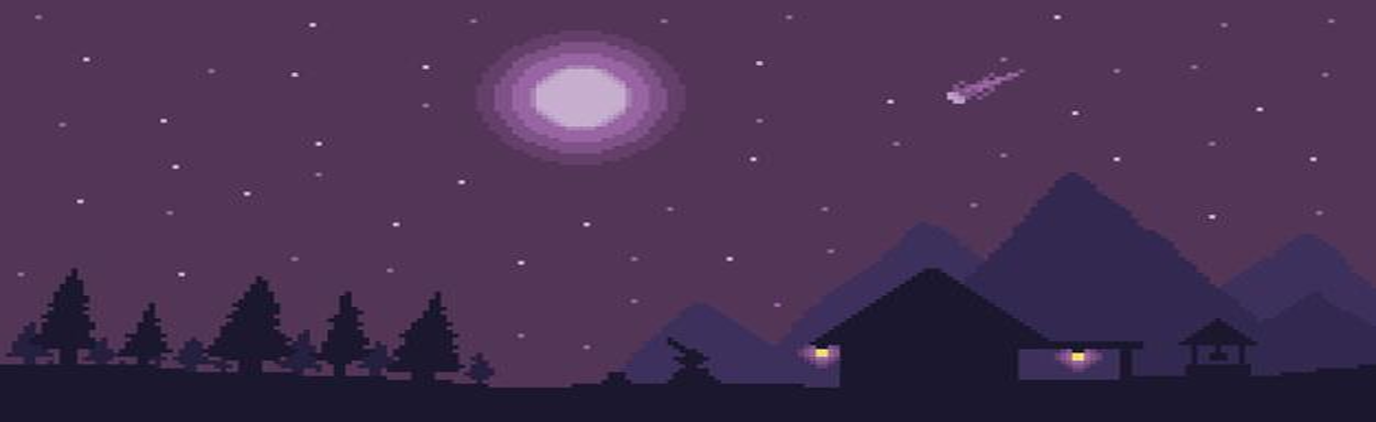
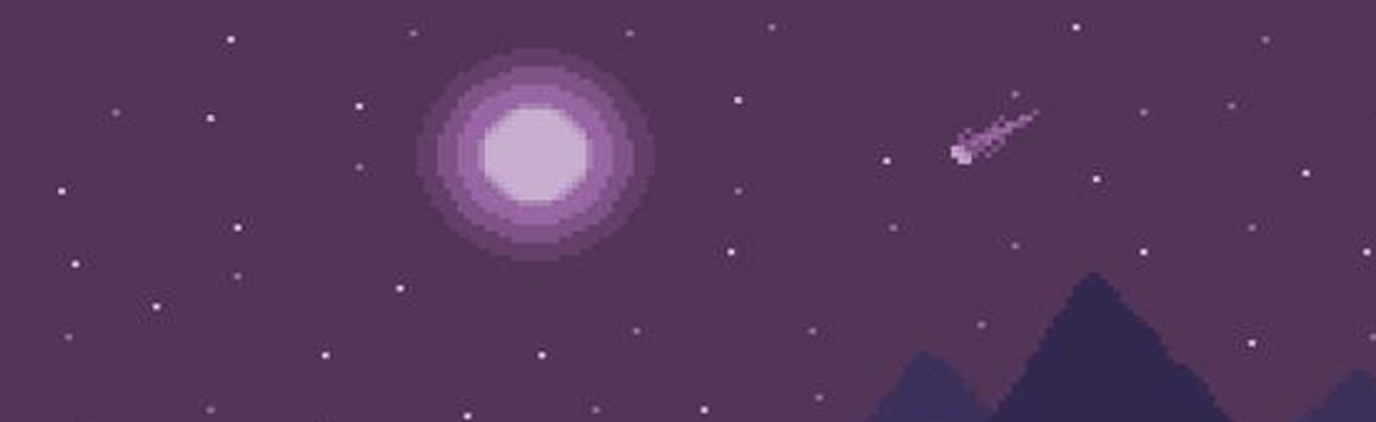
Alterações no fundo

diff --git a/NOVO/shooter_tut13.py b/NOVO/shooter_tut13.py
@@ -65,14 +65,14 @@ start_img = pygame.image.load('img/start_btn.png').convert_alpha()
 exit_img = pygame.image.load('img/exit_btn.png').convert_alpha()
 restart_img = pygame.image.load('img/restart_btn.png').convert_alpha()
 # background
-pine1_img = pygame.image.load('img/Background/pine1.png').convert_alpha()
-pine2_img = pygame.image.load('img/Background/pine2.png').convert_alpha()
-mountain_img = pygame.image.load('img/Background/mountain.png').convert_alpha()
+overlay_img = pygame.image.load('img/Background/overlay.png').convert_alpha()
+mist_img = pygame.image.load('img/Background/mist.png').convert_alpha()
+corridor_img = pygame.image.load('img/Background/corridor.png').convert_alpha()
 sky_img = pygame.image.load('img/Background/sky_cloud.png').convert_alpha()
 bkgnd_scle = 1.3
-pine1_img = pygame.transform.scale(pine1_img, (int(pine1_img.get_width() * bkgnd_scle), int(pine1_img.get_height() * bkgnd_scle)))
-pine2_img = pygame.transform.scale(pine2_img, (int(pine2_img.get_width() * bkgnd_scle), int(pine2_img.get_height() * bkgnd_scle)))
-mountain_img =pygame.transform.scale(mountain_img, (int(mountain_img.get_width() * bkgnd_scle), int(mountain_img.get_height() * bkgnd_scle)))
+overlay_img = pygame.transform.scale(overlay_img, (int(overlay_img.get_width() * bkgnd_scle), int(overlay_img.get_height() * bkgnd_scle)))
+mist_img = pygame.transform.scale(mist_img, (int(mist_img.get_width() * bkgnd_scle), int(mist_img.get_height() * bkgnd_scle)))
+corridor_img =pygame.transform.scale(corridor_img, (int(corridor_img.get_width() * bkgnd_scle), int(corridor_img.get_height() * bkgnd_scle)))
 sky_img =pygame.transform.scale(sky_img, (int(sky_img.get_width() * bkgnd_scle), int(sky_img.get_height() * bkgnd_scle)))
 # store tiles in a list
 img_list = []
@@ -95,7 +95,7 @@ item_boxes = {
 }
 
 # define colours
-BG = (144, 201, 120)
+BG = (0, 0, 0)
 RED = (255, 0, 0)
 WHITE = (255, 255, 255)
 GREEN = (0, 255, 0)
@@ -116,17 +116,13 @@ def draw_bg():
     width = sky_img.get_width()
     for x in range(5):
         screen.blit(sky_img, ((x * width) - bg_scroll*0.5, 0))
-        screen.blit(mountain_img, ((x * width) - bg_scroll, 0))
-        # screen.blit(sky_img, ((x * width) - bg_scroll * 0.5, 0))
-        # screen.blit(mountain_img, ((x * width) - bg_scroll * 0.6, SCREEN_HEIGHT - mountain_img.get_height() - 300))
-        # screen.blit(pine1_img, ((x * width) - bg_scroll * 0.7, SCREEN_HEIGHT - pine1_img.get_height() - 150))
-        # screen.blit(pine2_img, ((x * width) - bg_scroll * 0.8, SCREEN_HEIGHT - pine2_img.get_height()))
+        screen.blit(corridor_img, ((x * width) - bg_scroll, 0))
 
 def draw_obg():
     width = sky_img.get_width()
     for x in range(5):
-        screen.blit(pine1_img, ((x * width) - bg_scroll*1.2, 0))
-        screen.blit(pine2_img, ((x * width) - bg_scroll - pygame.time.get_ticks()*0.1, 0))
+        screen.blit(overlay_img, ((x * width) - bg_scroll*1.2, 0))
+        screen.blit(mist_img, ((x * width) - bg_scroll - pygame.time.get_ticks()*0.1, 0))
 
 def draw_mist():
     # this function draws a mist when the player is in the phantom dimension
@@ -757,13 +753,7 @@ while run:
         # draw world map
         world.draw()
         
-        # show player health
-        health_bar.draw(player.health)
-        # show grenades
-        draw_text('Explosivo: ', font, WHITE, 10, 40)
-        for x in range(player.grenades):
-            screen.blit(grenade_img, (120 + (x * 15), 42))
-
+        
         player.update()
         player.draw()
 
@@ -794,6 +784,14 @@ while run:
         draw_obg()
 
         draw_mist()
+
+        # show player health
+        health_bar.draw(player.health)
+        # show grenades
+        draw_text('Explosivo: ', font, WHITE, 10, 40)
+        for x in range(player.grenades):
+            screen.blit(grenade_img, (120 + (x * 15), 42))
+
 
         # show intro
         if start_intro == True:
